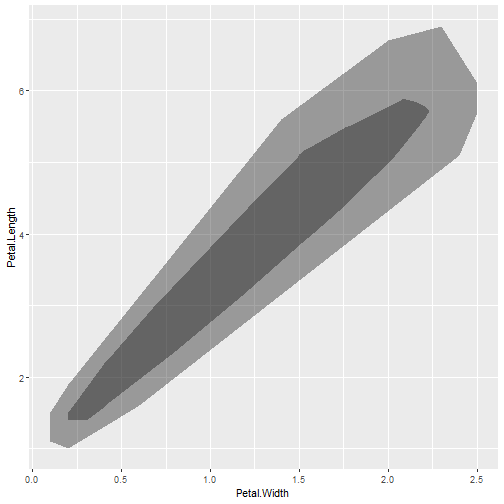
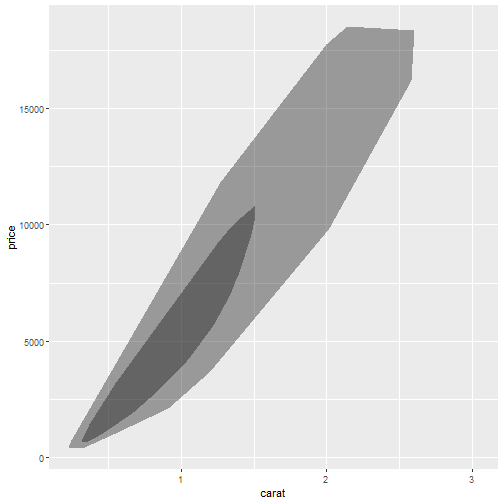
updating data vis part 3

diff --git a/_posts/2018-11-29-visualizind-data-in-r-with-ggplot2-part-3.md b/_posts/2018-11-29-visualizind-data-in-r-with-ggplot2-part-3.md
@@ -1191,11 +1191,14 @@ We can compute the data for a bagplot and plot one using the `aplpack` package.
 # load required package
 library(aplpack)
 
-# Create bagplot of iris dataset: sepal.length vs. sepal.width
-bagplot(x = iris$Petal.Width, y =  iris$Petal.Length)
+# sample the diamonds dataset
+diamonds_subset <- sample_n(tbl = diamonds, size = 500)
+
+# Create bagplot of diamonds dataset: diamonds$carat vs. diamonds$price
+bagplot(x = diamonds_subset$carat, y = diamonds_subset$price)
 
 # Get bagplot stats
-bag <- compute.bagplot(x = iris$Petal.Width, y =  iris$Petal.Length)
+bag <- compute.bagplot(x = diamonds_subset$carat, y = diamonds_subset$price)
 
 # Examine the variables computed in the bag object.
 names(bag)
@@ -1226,17 +1229,13 @@ hull.bag <- data.frame(x = bag$hull.bag[,1], y = bag$hull.bag[,2])
 pxy.outlier <- data.frame(x = bag$pxy.outlier[,1], y = bag$pxy.outlier[,2])
 
 # Finish the ggplot command
-ggplot(iris, aes(x = Petal.Width,  y = Petal.Length)) +
+ggplot(diamonds_subset, aes(x = carat,  y = price)) +
   geom_polygon(data = hull.loop, aes(x = x, y = y), fill = "green") +
-  geom_polygon(data = hull.bag, aes(x = x, y = y), fill = "orange") 
+  geom_polygon(data = hull.bag, aes(x = x, y = y), fill = "orange") +
+  geom_point(data = pxy.outlier, aes(x = x, y = y), col = "purple", pch = 16, cex = 1.5)
 ```
 
 ![plot of chunk unnamed-chunk-35](/figure/source/2018-11-29-visualizind-data-in-r-with-ggplot2-part-3/unnamed-chunk-35-1.png)
-
-```r
-# if we had outliers in the dataset we could plot them as well  
-# geom_point(data = pxy.outlier, aes(x = x, y = y), col = "purple", pch = 16, cex = 1.5)
-```
 
 The plot above is a good starting point, but we can do better. In the process, we will learn how to use the `ggproto` function which can be used to make any new layer you can think of and ultimately build your own plots. `ggproto` takes 4 arguments:
 
@@ -1307,7 +1306,7 @@ And finally, we can apply the data to our new function to make the plot
 
 
 ```r
-ggplot(iris, aes(x = Petal.Width,  y = Petal.Length))+
+ggplot(diamonds_subset, aes(x = carat,  y = price))+
   stat_bag(fill = "black")
 ```
 
@@ -1317,7 +1316,7 @@ This custom function is flexible as well. Instead of calling the fill in the sta
 
 
 ```r
-ggplot(iris, aes(x = Petal.Width,  y = Petal.Length, fill = Species))+
+ggplot(diamonds_subset, aes(x = carat,  y = price, fill = clarity ))+
   stat_bag()
 ```
 
